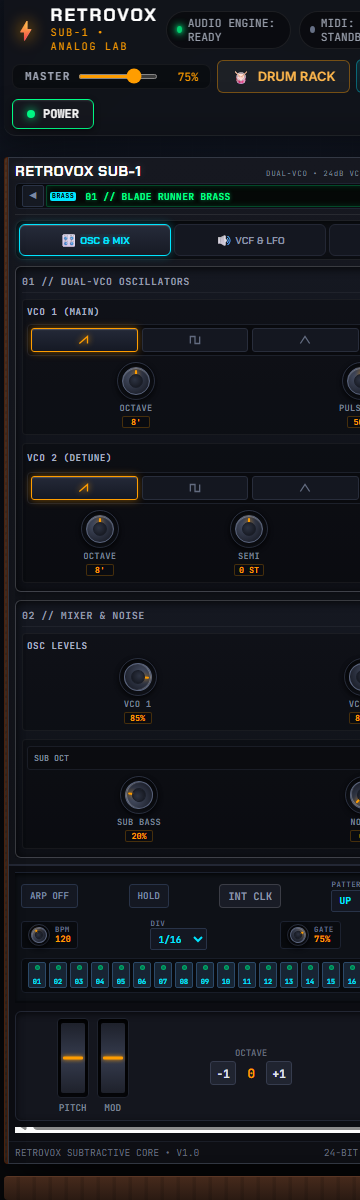
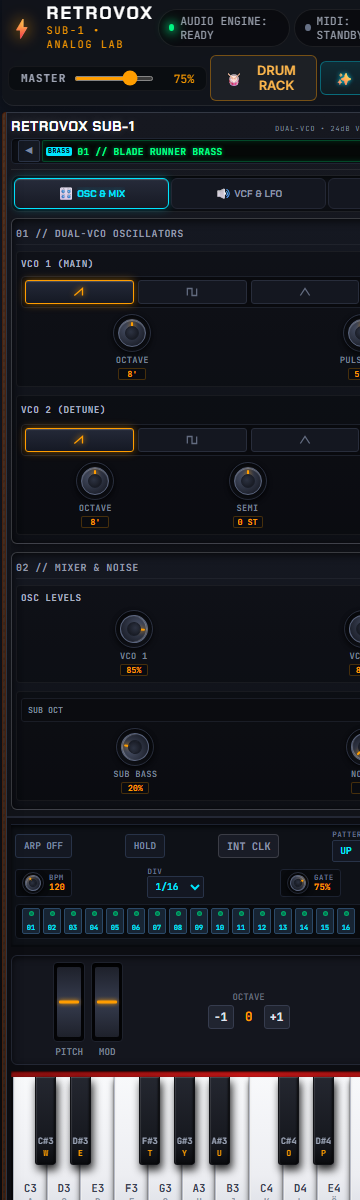
release(v1.7.0): dynamic full-width keybed scaling for PC & widescreen

diff --git a/js/synth-ui.js b/js/synth-ui.js
@@ -123,19 +123,43 @@ class SynthUI {
   }
 
   /**
+   * Calculates the optimal number of keys to fill the keyboard container width without blank gaps.
+   * Snaps dynamically to classic analog synth keybed standards (25, 37, 49, or 61 keys, all ending on C).
+   */
+  calculateOptimalKeyCount() {
+    if (!this.keyboardContainer) return 25;
+    const containerWidth = this.keyboardContainer.clientWidth;
+    if (!containerWidth || containerWidth < 200) return 25;
+
+    // Minimum comfortable width per white key
+    const minWhiteKeyWidth = 35; // px
+
+    if (containerWidth >= 36 * minWhiteKeyWidth) {
+      return 61; // 5 Octaves + 1 (C3 to C8, 36 white keys)
+    } else if (containerWidth >= 29 * minWhiteKeyWidth) {
+      return 49; // 4 Octaves + 1 (C3 to C7, 29 white keys)
+    } else if (containerWidth >= 22 * minWhiteKeyWidth) {
+      return 37; // 3 Octaves + 1 (C3 to C6, 22 white keys)
+    } else {
+      return 25; // 2 Octaves + 1 (C3 to C5, 15 white keys)
+    }
+  }
+
+  /**
    * Recalculates black key left offsets according to responsive key width
    */
   repositionBlackKeys() {
+    if (!this.keyboardContainer) return;
     const whiteKeyEl = this.keyboardContainer.querySelector('.key-white');
     const blackKeyEl = this.keyboardContainer.querySelector('.key-black');
     if (!whiteKeyEl || !blackKeyEl) return;
     const whiteKeyWidth = whiteKeyEl.getBoundingClientRect().width;
-    const blackKeyWidth = blackKeyEl.getBoundingClientRect().width;
+    const blackKeyWidth = blackKeyEl.getBoundingClientRect().width || 26;
     if (whiteKeyWidth <= 0) return;
 
     let whiteKeyIndex = 0;
-    const startMidi = 48;
-    const numKeys = 25;
+    const startMidi = this.startMidi || 48;
+    const numKeys = this.numKeys || 25;
     for (let i = 0; i < numKeys; i++) {
       const midiNote = startMidi + i;
       const noteInOctave = midiNote % 12;
@@ -151,12 +175,15 @@ class SynthUI {
   }
 
   /**
-   * Generates the 25-Key Keybed (C3 = 48 to C5 = 72)
+   * Generates the Dynamic Keybed (C3 = 48 upwards, dynamically scaled to container width)
    */
-  initKeyboard() {
+  initKeyboard(isRebuild = false) {
+    if (!this.keyboardContainer) return;
+    this.startMidi = 48; // C3
+    this.numKeys = this.calculateOptimalKeyCount();
+
     this.keyboardContainer.innerHTML = '';
-    const startMidi = 48; // C3
-    const numKeys = 25;   // 2 Octaves + 1 Key
+    this.activeKeyElements.clear();
     
     const noteNames = ['C', 'C#', 'D', 'D#', 'E', 'F', 'F#', 'G', 'G#', 'A', 'A#', 'B'];
     const keyShortcuts = {
@@ -168,8 +195,8 @@ class SynthUI {
 
     let whiteKeyIndex = 0;
 
-    for (let i = 0; i < numKeys; i++) {
-      const midiNote = startMidi + i;
+    for (let i = 0; i < this.numKeys; i++) {
+      const midiNote = this.startMidi + i;
       const noteInOctave = midiNote % 12;
       const octaveNum = Math.floor(midiNote / 12) - 1;
       const isBlack = [1, 3, 6, 8, 10].includes(noteInOctave);
@@ -194,29 +221,61 @@ class SynthUI {
           <span class="key-note-label">${noteName}</span>
           ${shortcut ? `<span class="key-shortcut">${shortcut}</span>` : ''}
         `;
-
-        const whiteKeyWidth = parseFloat(getComputedStyle(document.documentElement).getPropertyValue('--white-key-width')) || 42;
-        const blackKeyWidth = parseFloat(getComputedStyle(document.documentElement).getPropertyValue('--black-key-width')) || 26;
-        const leftOffset = (whiteKeyIndex * whiteKeyWidth) - (blackKeyWidth / 2);
-        keyEl.style.left = `${leftOffset}px`;
-        
         this.keyboardContainer.appendChild(keyEl);
         this.activeKeyElements.set(midiNote, keyEl);
+      }
+
+      // Preserve active state if key is currently held
+      if (this.keyboardHeldKeys.has(midiNote) || this.mouseHeldKeys.has(midiNote)) {
+        keyEl.classList.add('active');
       }
 
       this.attachKeyEvents(keyEl, midiNote);
     }
 
+    // Position black keys after layout calculation
+    requestAnimationFrame(() => this.repositionBlackKeys());
+
+    if (isRebuild) return;
+
     // Window resize & orientation change recalculations
-    window.addEventListener('resize', () => this.repositionBlackKeys());
-    window.addEventListener('orientationchange', () => {
-      setTimeout(() => this.repositionBlackKeys(), 100);
+    window.addEventListener('resize', () => {
+      const newCount = this.calculateOptimalKeyCount();
+      if (newCount !== this.numKeys) {
+        this.initKeyboard(true);
+      } else {
+        this.repositionBlackKeys();
+      }
     });
+
+    window.addEventListener('orientationchange', () => {
+      setTimeout(() => {
+        this.initKeyboard(true);
+      }, 120);
+    });
+
+    // ResizeObserver for dynamic container responsiveness
+    if (window.ResizeObserver && this.keyboardContainer) {
+      let resizeTimer = null;
+      const observer = new ResizeObserver(() => {
+        clearTimeout(resizeTimer);
+        resizeTimer = setTimeout(() => {
+          const newCount = this.calculateOptimalKeyCount();
+          if (newCount !== this.numKeys) {
+            this.initKeyboard(true);
+          } else {
+            this.repositionBlackKeys();
+          }
+        }, 60);
+      });
+      observer.observe(this.keyboardContainer.parentElement || this.keyboardContainer);
+    }
 
     // Multi-touch keyboard tracking for glissando & mobile playing
     const activeTouchNotes = new Map();
 
     const handleTouchInteraction = (e) => {
+      this.engine.ensureAudioRunning();
       const currentTouches = new Set();
       for (let i = 0; i < e.touches.length; i++) {
         const touch = e.touches[i];

diff --git a/index.html b/index.html
@@ -131,7 +131,7 @@ window.addEventListener('DOMContentLoaded', () => {
         <button class="btn btn-outline changelog-trigger-btn" id="openChangelogBtn">
           <span class="changelog-sparkle">✨</span>
           <span>Was gibt's Neues?</span>
-          <span class="version-tag">v1.6.2</span>
+          <span class="version-tag">v1.7.0</span>
         </button>
         <button class="power-switch-btn" id="mainPowerBtn" title="Synthesizer Ein-/Ausschalten">
           <span class="power-indicator"></span>
@@ -1221,11 +1221,11 @@ window.addEventListener('DOMContentLoaded', () => {
         <div class="modal-title-group">
           <div class="version-release-header">
             <span class="badge-tag-release">NEUE VERSION</span>
-            <span class="release-version-number">v1.6.2</span>
+            <span class="release-version-number">v1.7.0</span>
             <span class="release-date-tag">August 2026</span>
           </div>
           <h2>Was gibt's Neues im RETROVOX SUB-1</h2>
-          <p class="modal-subtitle">iPadOS & iOS Safari CoreAudio Resilience • Reliable Audio Unlock</p>
+          <p class="modal-subtitle">Dynamic Full-Width Keybed • Multi-Octave Desktop Scaling & iOS CoreAudio Resilience</p>
         </div>
         <button class="modal-close-btn" id="closeChangelogBtn" aria-label="Schließen">&times;</button>
       </div>

diff --git a/scripts/capture-screenshots.js b/scripts/capture-screenshots.js
@@ -20,8 +20,8 @@ const desktopShot = path.join(screenshotsDir, 'screenshot-desktop.png');
 const mobileShot = path.join(screenshotsDir, 'screenshot-mobile.png');
 const phonePortraitShot = path.join(screenshotsDir, 'screenshot-phone-portrait.png');
 
-console.log('1. Capturing desktop screenshot (1280x720)...');
-execSync(`"${CHROME_PATH}" --headless=new --disable-gpu --window-size=1280,720 --screenshot="${desktopShot}" "${fileUrl}"`, { stdio: 'inherit' });
+console.log('1. Capturing desktop screenshot (1440x920)...');
+execSync(`"${CHROME_PATH}" --headless=new --disable-gpu --window-size=1440,920 --screenshot="${desktopShot}" "${fileUrl}#synth"`, { stdio: 'inherit' });
 
 console.log('2. Capturing mobile screenshot (750x1334)...');
 execSync(`"${CHROME_PATH}" --headless=new --disable-gpu --window-size=750,1334 --screenshot="${mobileShot}" "${fileUrl}#drums"`, { stdio: 'inherit' });

diff --git a/css/style.css b/css/style.css
@@ -1131,15 +1131,19 @@ body {
 .synth-keyboard {
   display: flex;
   position: relative;
+  width: 100%;
   height: var(--white-key-height);
   background: #0a0b0e;
   padding: 0 2px 2px 2px;
   border-radius: 0 0 4px 4px;
+  box-sizing: border-box;
 }
 
 /* White Key */
 .key-white {
-  width: var(--white-key-width);
+  flex: 1 1 0;
+  min-width: 28px;
+  max-width: 48px;
   height: var(--white-key-height);
   background: linear-gradient(180deg, #f8f9fb 0%, #edeef2 70%, #dcdfe6 100%);
   border: 1px solid #b8bcc8;

diff --git a/sw.js b/sw.js
@@ -1,10 +1,10 @@
 /**
  * RETROVOX SUB-1 • Service Worker (App Shell & Offline Precache)
- * Version: 1.6.2
+ * Version: 1.7.0
  * Pure Native Standards (Zero Bundlers / Zero Build Steps)
  */
 
-const CACHE_VERSION = 'v1.6.2';
+const CACHE_VERSION = 'v1.7.0';
 const SHELL_CACHE = `retrovox-shell-${CACHE_VERSION}`;
 const FONT_CACHE = 'retrovox-fonts-v1';
 

diff --git a/js/app.js b/js/app.js
@@ -31,7 +31,7 @@ document.addEventListener('DOMContentLoaded', () => {
   const speakerLedRight = document.getElementById('speakerLedRight');
 
   // Version & Changelog State
-  const CURRENT_APP_VERSION = '1.6.2';
+  const CURRENT_APP_VERSION = '1.7.0';
   const STORAGE_KEY_VERSION = 'retrovox_synth_version';
 
   // Changelog Modal Elements

diff --git a/README.md b/README.md
@@ -1,6 +1,6 @@
 # 🎹 RETROVOX SUB-1 & RETROBEAT D-909 • Analog Synthesizer & Drum Studio
 
-[![Version](https://img.shields.io/badge/Version-1.6.2-00E5FF?style=flat-square)](#)
+[![Version](https://img.shields.io/badge/Version-1.7.0-00E5FF?style=flat-square)](#)
 [![Web Audio API](https://img.shields.io/badge/Web_Audio-DSP_Core-00FF88?style=flat-square)](#)
 [![Web MIDI API](https://img.shields.io/badge/Web_MIDI-Plug_%26_Play-FF9D00?style=flat-square)](#)
 [![PWA Ready](https://img.shields.io/badge/PWA-100%25_Offline-9900FF?style=flat-square)](#)
@@ -10,11 +10,12 @@ Ein authentischer analoger Synthesizer (**RETROVOX SUB-1**) und eine DSP Drum & 
 
 ---
 
-### ⚡ NEU in v1.6.2: iOS & iPadOS Safari CoreAudio Entsperrung & Resilientes Audio-Unlocking
+### ⚡ NEU in v1.7.0: Dynamische Klaviatur-Erweiterung für Widescreen & PC
+- **🎹 Dynamische Vollbreiten-Klaviatur:** Die Klaviatur füllt das Synthesizer-Chassis auf PCs und Widescreen-Monitoren nun ohne leere Lücken vollflächig aus (automatische Skalierung auf 25, 37, 49 oder bis zu 61 Tasten).
+- **🎼 Harmonischer Oktaven-Abschluss:** Die Klaviatur schließt immer sauber und symmetrisch auf einem hohen **C** ab (z. B. C3–C6, C3–C7).
+- **📐 Millimetergenaue Halbtonton-Ausrichtung:** Halbtöne werden per Vektor-Berechnung exakt an den flexiblen Tastenrändern platziert.
+- **⚡ Live ResizeObserver:** Nahtlose Größenanpassung bei Fensteränderungen, ohne aktive Noten zu unterbrechen.
 - **🍎 iOS / iPadOS Safari CoreAudio Kickstart:** Zuverlässige Hardware-Entsperrung des Audio-Outputs via 1-Sample-Silent-Buffer beim ersten Touch- oder Tastenanschlag.
-- **🔄 Resilientes Unlock-Handling:** Unlock-Listener bleiben aktiv, bis der `AudioContext` verifiziert den Status `running` erreicht hat (keine Notenaussetzer mehr nach Hardware-Keyboard-Eingaben).
-- **👆 Interaktiver Audio-Status-Badge (Tap-to-Activate):** Der `AUDIO ENGINE`-Badge im Header zeigt den echten Zustand an und kann bei Audio-Unterbrechungen (z. B. nach App-Wechsel auf dem iPad) direkt angetippt werden.
-- **👁 Automatischer Re-Resume bei Tab-Rückkehr:** Nahtlose Reaktivierung der Audio-Engine bei Rückkehr aus dem Hintergrund (`visibilitychange`).
 
 ---
 

diff --git a/AGENTS.md b/AGENTS.md
@@ -27,7 +27,7 @@ websynth/
 ├── index.html              # HTML5 Studio Desk Layout, Modals & Control Housings
 ├── manifest.webmanifest    # W3C Web App Manifest (PWA Standalone Configuration)
 ├── sw.js                   # Service Worker (App Shell & Google WebFonts Offline Cache)
-├── package.json            # Versioning (v1.6.2), scripts & metadata
+├── package.json            # Versioning (v1.7.0), scripts & metadata
 ├── README.md               # User & feature documentation
 ├── AGENTS.md               # Developer & agent architectural guide
 ├── icons/                  # Retina & Maskable App Icons (SVG + PNG)
